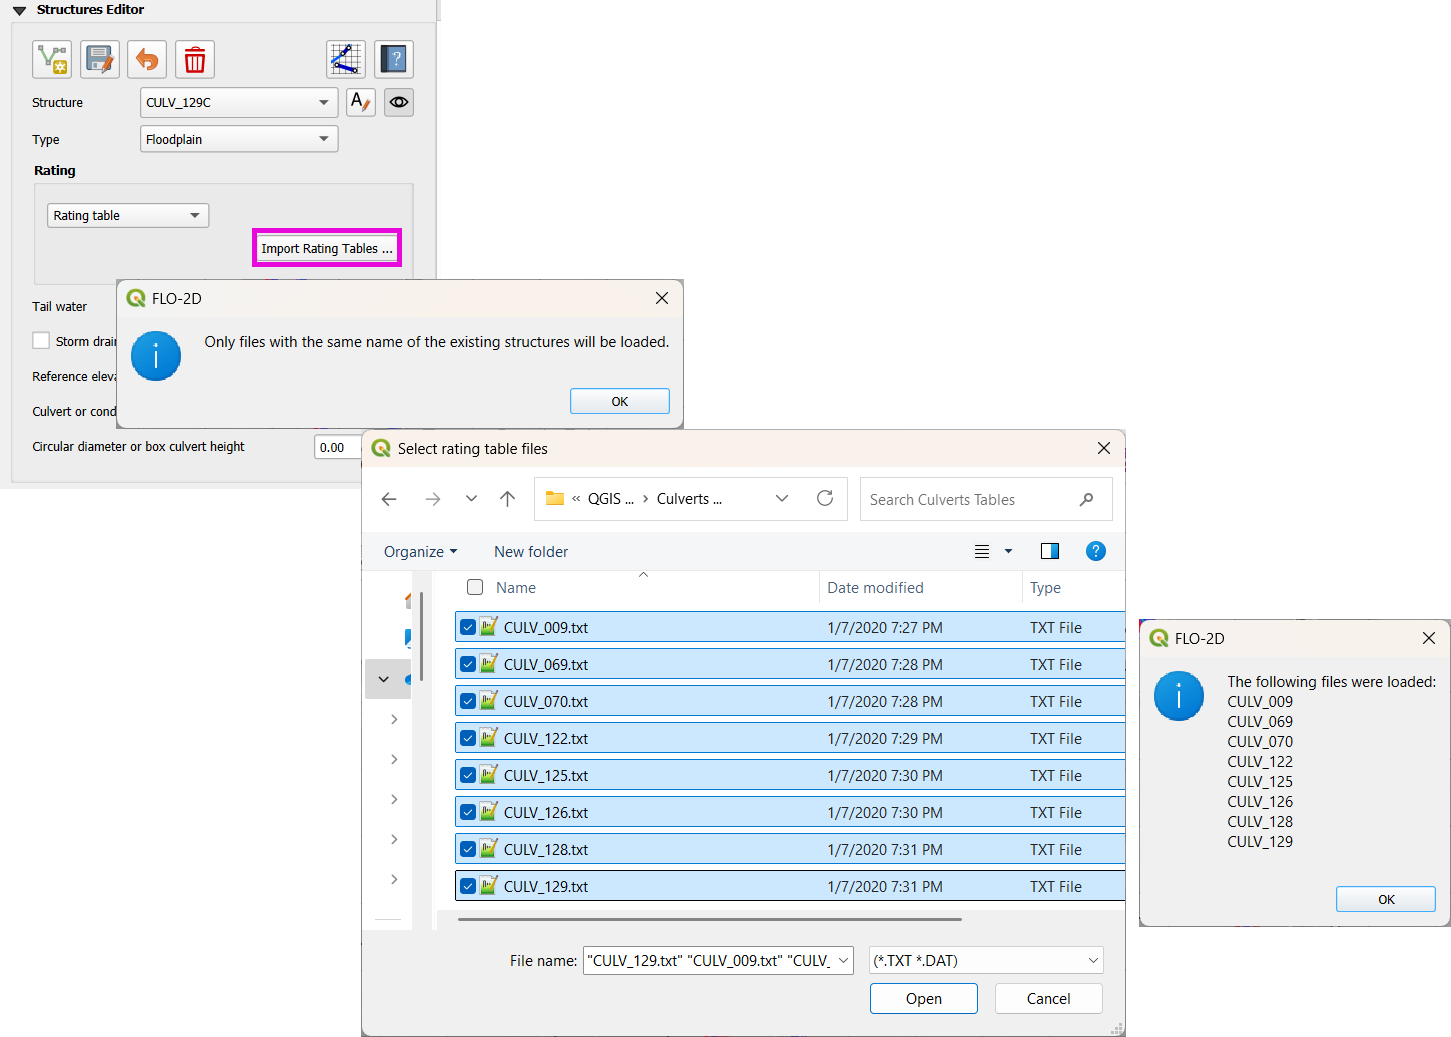
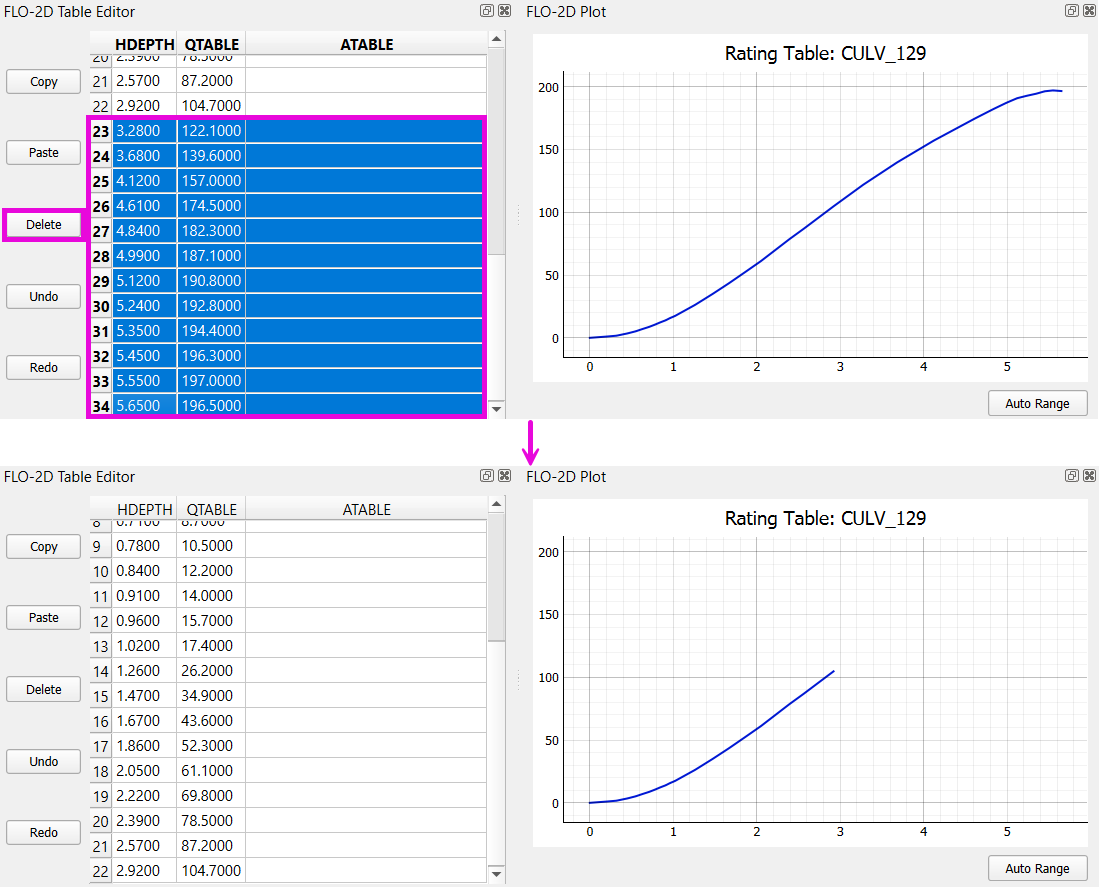
Hydraulic Structures - Culverts: Step 5: Rating Tables and Culvert Equations: Step 5(i): Import Rating Tables

diff --git a/source/tutorials/Self-Help-Kit-Gila/8-Hydraulic.rst b/source/tutorials/Self-Help-Kit-Gila/8-Hydraulic.rst
@@ -127,8 +127,43 @@ Step 4: Assign Structure Type
 .. note::
    For grouped culverts (e.g., simple storm drain systems), assign a **storm drain capacity** in CFS.
 
-Step 5: Schematic Correction and Recheck
+Step 5: Rating Tables and Culvert Equations
 ~~~~~~~~~~~~~~~~~~~~~~~~~~~~~~~~~~~~~~~~~~~~
+
+Step 5(i): Import Rating Tables
++++++++++++++++++++++++++++++++++
+
+- From the ``Culverts Tables`` folder, select all files except CULV_009.txt and CULV_122.txt and import.
+- Only rating tables that match existing structure names will be applied.
+
+.. image:: ../img/shg/8/shg_hydaulic010.png
+
+Manually Modify a Rating Table
+^^^^^^^^^^^^^^^^^^^^^^^^^^^^^^^^
+
+- Example: reduce max headwater for ``129``, ``129B``, ``129C`` to approx. 3 feet.
+- Delete rows from 3.0+ ft.
+
+.. image:: ../img/shg/8/shg_hydaulic011.png
+
+- Copy and paste modified table to the other two structures (``129B``, ``129C``).
+
+.. image:: ../img/shg/8/shg_hydaulic012.png
+
+.. note::
+   Use ``Ctrl + C`` and ``Ctrl + V`` or **Copy/Paste** buttons.
+
+   If need be, use "Auto Range" button to get a better plot.
+
+Step 5(ii): Culvert Equations
++++++++++++++++++++++++++++++++++
+
+.. _correct_elevation:
+
+Schematic Correction and Recheck*******************************************************
+~~~~~~~~~~~~~~~~~~~~~~~~~~~~~~~~~~~~~~~~~~~~~~~~~~~~~~~~~~~~~~~~~~~~~~~~~~~~~~~~~~~~~~~~~
+
+    .. image:: ../img/shg/8/shg_hydaulic010a.png
 
 - After assigning types:
 
@@ -138,33 +173,6 @@ Step 5: Schematic Correction and Recheck
 
     - Check and re-validate structure assignments one more time.
     - Use the Center button to cycle through and verify again.
-
-Step 6: Import Rating Tables
-~~~~~~~~~~~~~~~~~~~~~~~~~~~~~~~~~~
-
-- From the ``Culverts Tables`` folder, select all files and import.
-- Only rating tables that match existing structure names will be applied.
-
-.. image:: ../img/shg/8/shg_hydaulic011.png
-
-Step 7: Manually Modify a Rating Table
-~~~~~~~~~~~~~~~~~~~~~~~~~~~~~~~~~~~~~~~~~~~
-
-- Example: reduce max headwater for ``129``, ``129B``, ``129C`` to approx. 3 feet.
-- Delete rows from 3.0+ ft.
-
-.. image:: ../img/shg/8/shg_hydaulic012.png
-
-- Copy and paste modified table to the other two structures (``129B``, ``129C``).
-
-.. image:: ../img/shg/8/shg_hydaulic013.png
-
-.. note::
-   Use ``Ctrl + C`` and ``Ctrl + V`` or **Copy/Paste** buttons.
-
-   If need be, use "Auto Range" button to get a better plot.
-
-.. _correct_elevation:
 
 Correct Elevation
 ------------------
